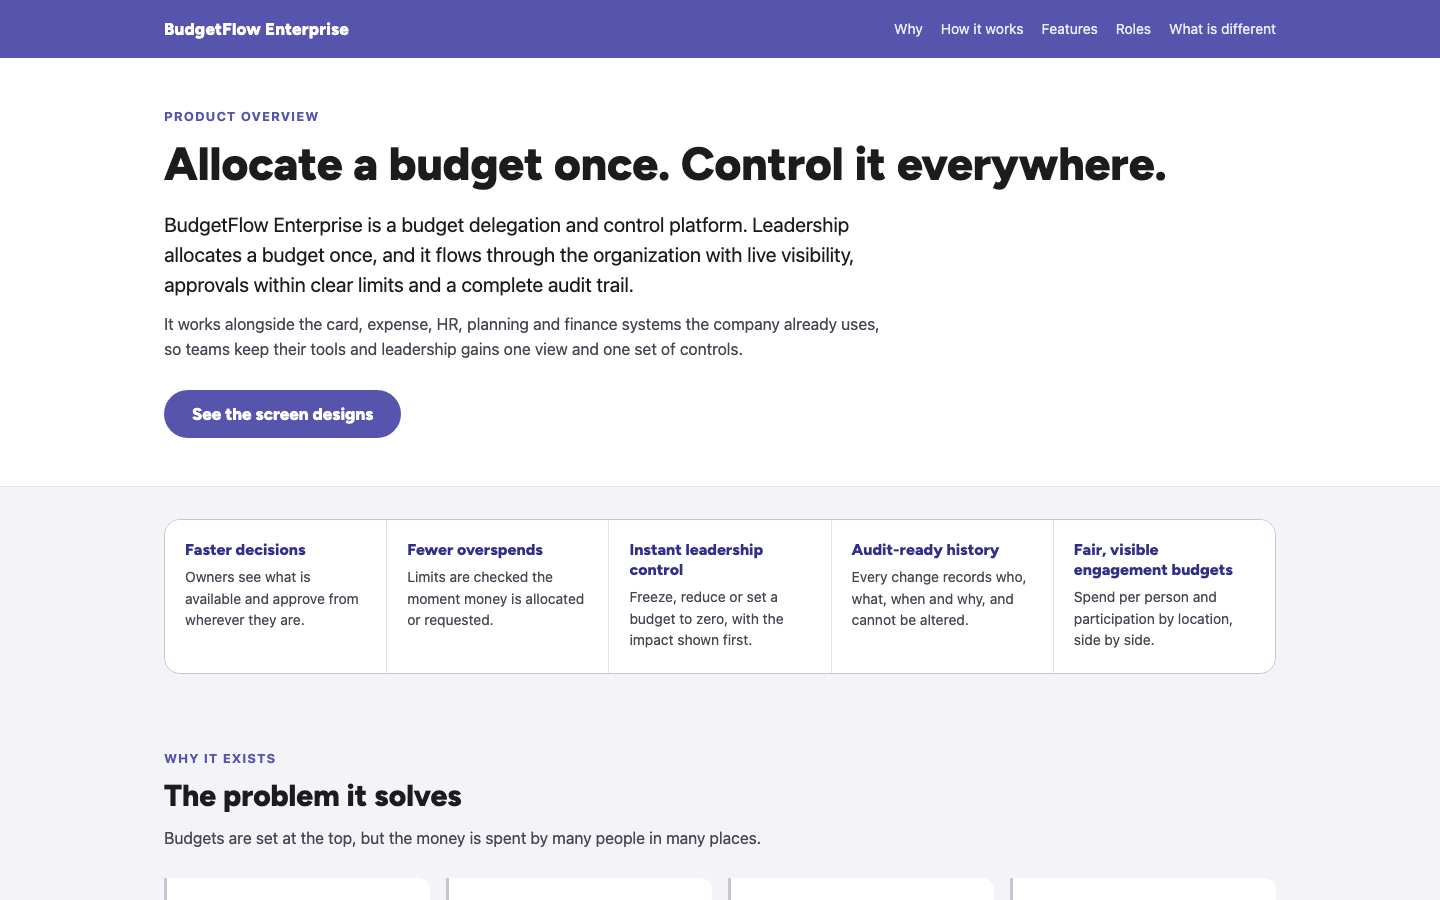
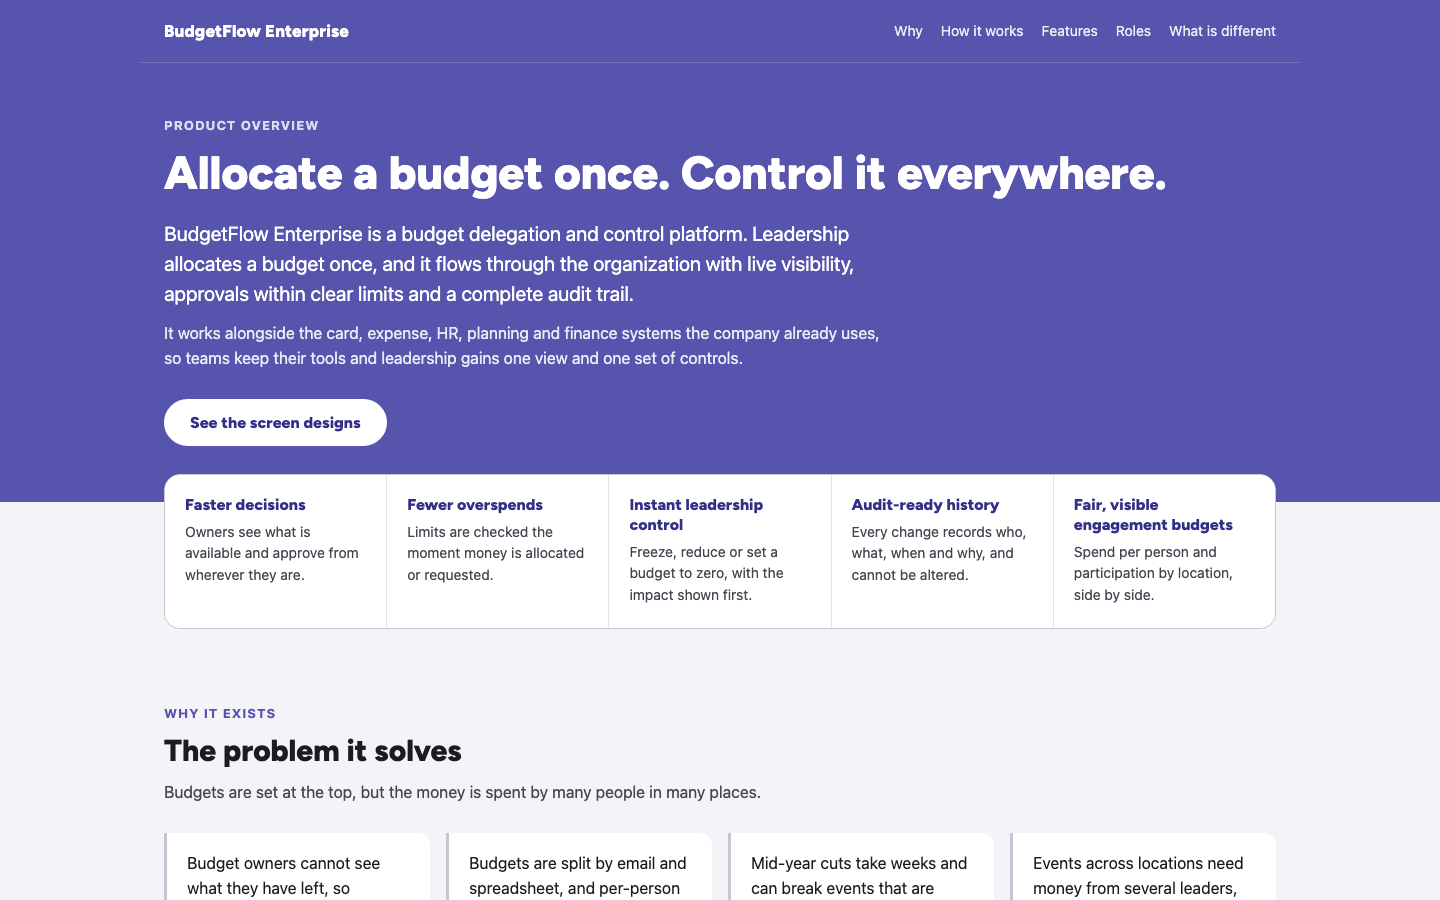
docs(evidence): record the live check of the restored overview with the hero link
After #33 merged and the preview was redeployed: HTTP 200, the white button in the purple hero on laptop and phone, one link to the screen designs, and the button opens the design preview.

diff --git a/evidence/leadership-overview/README.md b/evidence/leadership-overview/README.md
@@ -51,4 +51,14 @@
 
 ### Revision 2
 
-Recorded after the pull request merged and `design/preview/deploy.sh` published the site.
+- Merged in [#33](https://github.com/narasimhahyland/budgetflow/pull/33) (merge commit `3acc082`), then published with `design/preview/deploy.sh` from that commit.
+- Checked: 2026-11-05 03:15 UTC, curl and Playwright 1.64.1 (Chromium) against https://narasimhahyland.github.io/budgetflow/overview/
+
+| Check                                                                                                                                | Expected                                                                                               | Result |
+| ------------------------------------------------------------------------------------------------------------------------------------ | ------------------------------------------------------------------------------------------------------ | ------ |
+| `curl -sI` on the live URL ([live-curl-headers.txt](live-curl-headers.txt))                                                          | HTTP 200, `text/html`, new file (31604 bytes)                                                          | pass   |
+| Laptop, 1440 px ([live-desktop-1440-hero.png](live-desktop-1440-hero.png), full page [live-desktop-1440.png](live-desktop-1440.png)) | Purple hero (`rgb(86, 84, 172)`) with a white "See the screen designs" button, `rgb(50, 47, 134)` text | pass   |
+| Phone, iPhone 13 ([live-mobile-390-hero.png](live-mobile-390-hero.png), full page [live-mobile-390.png](live-mobile-390.png))        | Button in the first viewport, no horizontal overflow                                                   | pass   |
+| Links to the screen designs                                                                                                          | Exactly one, in the hero; none in the footer                                                           | pass   |
+| Click the button                                                                                                                     | Opens `/budgetflow/index.html` (clickable design preview)                                              | pass   |
+| Page errors                                                                                                                          | None                                                                                                   | pass   |
